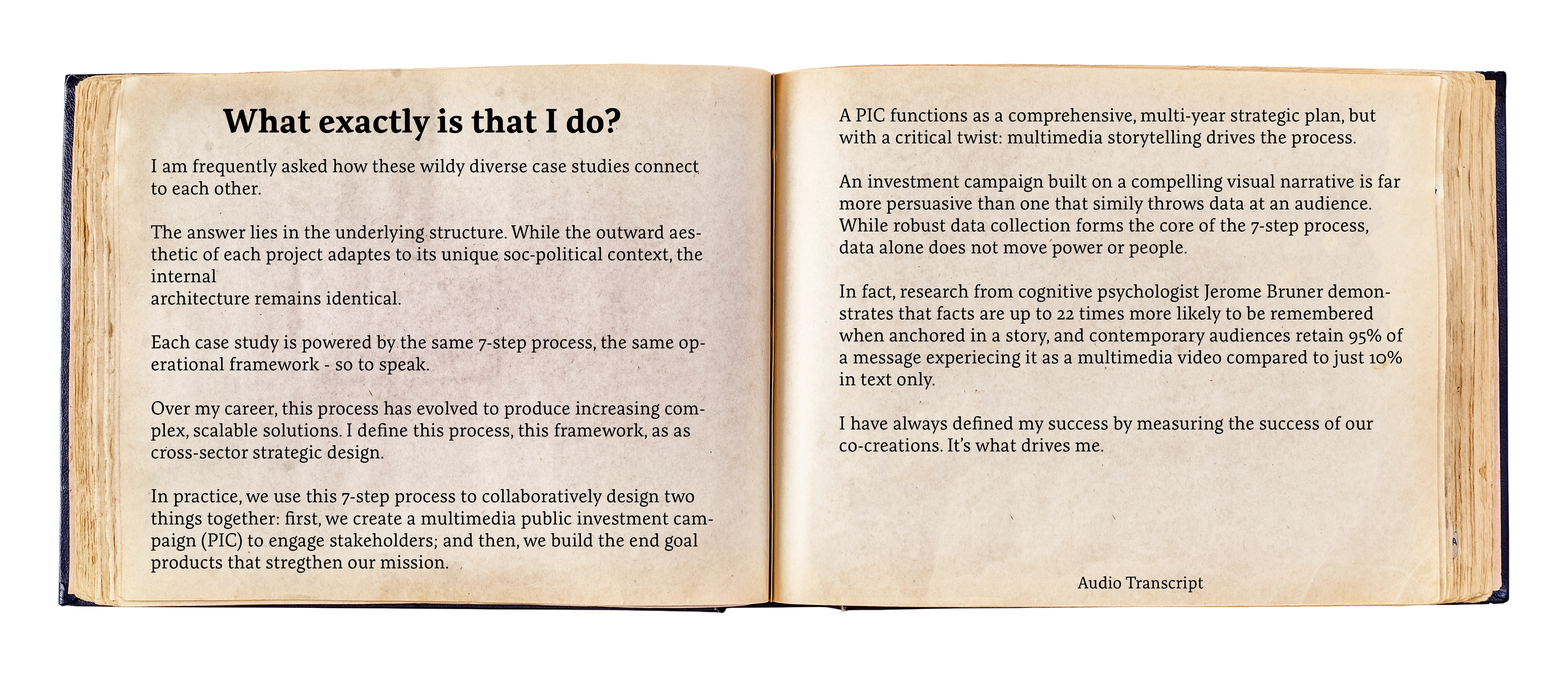
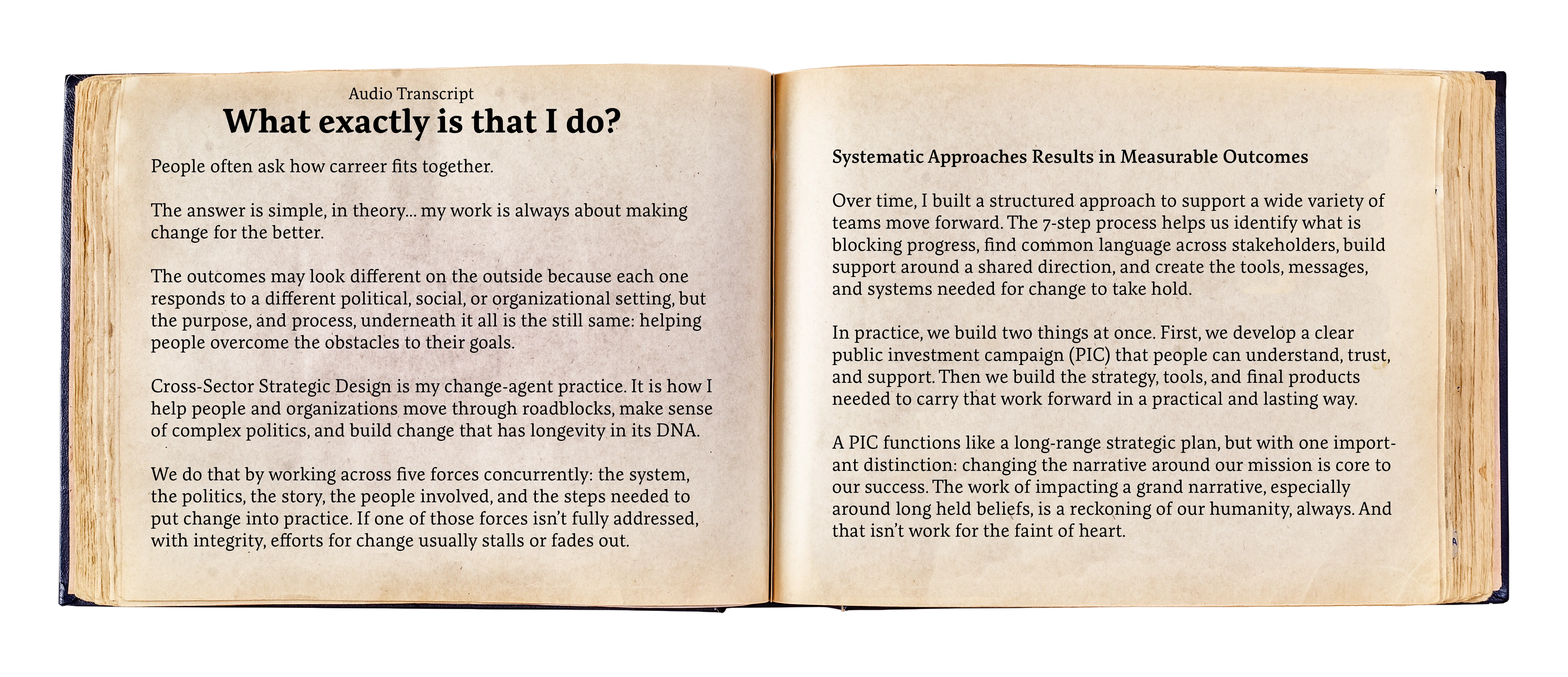
push

diff --git a/css/style.css b/css/style.css
@@ -236,10 +236,19 @@ a:focus-visible {
   padding: var(--space-2) var(--content-pad);
   width: 100%;
 }
-/* Empty left column placeholder keeps TV in its column */
-.hero-inner::before {
-  content: '';
+/* Left column — changeagent statement, anchored to the bottom of the grid row
+   so it sits at the same vertical level as the Q&A cards below it.
+   The ::before placeholder is replaced by this real element in the HTML. */
+.hero-left-col {
+  display: flex;
+  align-items: flex-end;
+  padding-bottom: var(--space-4);
+}
+.changeagent-svg {
   display: block;
+  width: 100%;
+  max-width: 560px;
+  height: auto;
 }
 /* .hero-text removed — heading is now in .hero-heading-wrap above the grid */
 /* Hero heading — full width row above the TV grid */
@@ -1240,6 +1249,10 @@ Spine hidden on mobile. Clean single column.
   }
   /* Hero TV hidden on mobile — mobile TV stack in hero section shows instead */
   .hero-visual {
+    display: none;
+  }
+  /* Changeagent statement hidden on mobile — too large for single-column layout */
+  .hero-left-col {
     display: none;
   }
   /* Hero mobile media — TV chassis + video stacked */

diff --git a/index.html b/index.html
@@ -72,7 +72,16 @@
 
       <div class="hero-inner">
 
-        <!-- hero-text removed — heading is now above the grid -->
+        <!-- Left column — changeagent statement, floats beside the Q&A section -->
+        <div class="hero-left-col">
+          <img
+            src="assets/SVG/changeagent.svg"
+            alt="Cross-sector design is my change-agent practice: a systems-based approach to shifting narrative, aligning people, and building the daily structure that makes lasting change possible."
+            class="changeagent-svg"
+            loading="lazy"
+            decoding="async"
+          />
+        </div>
 
         <!-- Mobile-only: TV chassis + video stacked.
              Tappable — opens the same #video-modal as the desktop TV,
